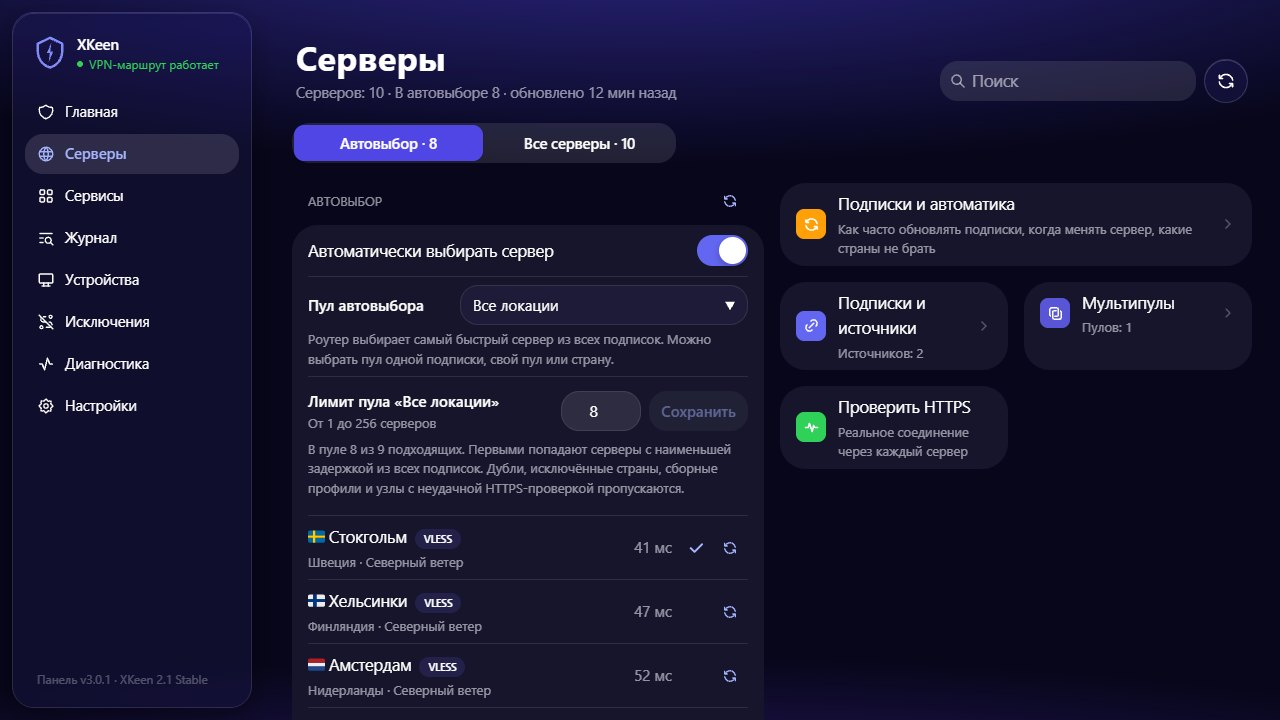
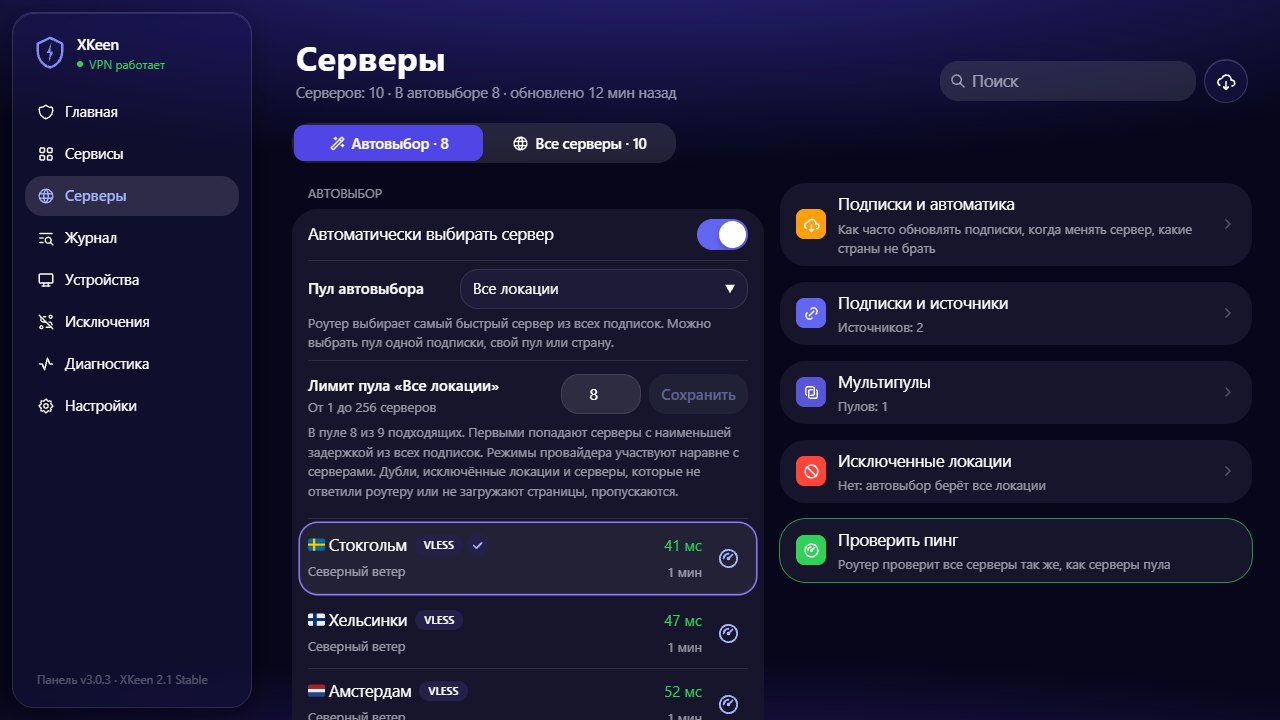
Prepare the v3.0.3 release
Version v3.0.3 in the guide, installation, install skill, release workflow
and demo; release notes; screenshots retaken from the demo. The servers
screen falls back to its default tab when the stored view is missing or
unknown, and the demo keeps that view in memory.

diff --git a/frontend/src/pages/welcomePage.tsx b/frontend/src/pages/welcomePage.tsx
@@ -248,7 +248,7 @@ function XKeenStep({ onRetry }: { onRetry: () => void }) {
                 footer='Потребуются доступ к роутеру в домашней сети и готовая подписка или ссылка сервера. Не отключайте VPN компьютера, пока агент не проверит альтернативный доступ.'
             >
                 <a
-                    href='https://github.com/Sgadmer/xkeen-panel/blob/v3.0.2/docs/installation.md'
+                    href='https://github.com/Sgadmer/xkeen-panel/blob/v3.0.3/docs/installation.md'
                     target='_blank'
                     rel='noopener noreferrer'
                     className='flex min-h-12 items-center py-3 text-[15px] text-tint'

diff --git a/frontend/src/pages/serversPage.tsx b/frontend/src/pages/serversPage.tsx
@@ -91,8 +91,12 @@ function useServersView() {
         mutationFn: (view: ServersView) => api.put<ServersView>('/api/ui/servers', view),
         onMutate: view => { qc.setQueryData(viewKey, view) },
     })
+    // A missing or unknown value falls back to the default, so the screen is
+    // never left without a list.
+    const stored = { ...defaultView, ...query.data }
+    if (stored.tab !== 'pool' && stored.tab !== 'all') stored.tab = defaultView.tab
     return {
-        view: query.data ?? defaultView,
+        view: stored,
         change: (next: Partial<ServersView>) => save.mutate({ ...(qc.getQueryData<ServersView>(viewKey) ?? defaultView), ...next }),
     }
 }

diff --git a/internal/demo/demo.go b/internal/demo/demo.go
@@ -14,6 +14,7 @@ import (
 	"os"
 	"path/filepath"
 	"strings"
+	"sync"
 	"time"
 
 	"github.com/boombuler/barcode"
@@ -23,8 +24,13 @@ import (
 
 type object = map[string]interface{}
 
+var (
+	serversViewMu sync.Mutex
+	serversView   = object{"tab": "pool", "country_order": "name-asc", "country": "all", "only_responding": false}
+)
+
 func Handler(frontend fs.FS) http.Handler {
-	status := object{"connected": true, "internet": true, "proxy_checked": true, "xray_running": true, "restarting": false, "current_server": "Нидерланды · основной", "protocol": "vless", "latency_ms": 48, "uptime": "2 д 4 ч", "last_check": time.Now().UTC().Format(time.RFC3339), "watchdog_active": true, "panel_version": "v3.0.2", "core": "xray", "mode": "TProxy", "xkeen_version": "2.1 Stable", "generation": 2}
+	status := object{"connected": true, "internet": true, "proxy_checked": true, "xray_running": true, "restarting": false, "current_server": "Нидерланды · основной", "protocol": "vless", "latency_ms": 48, "uptime": "2 д 4 ч", "last_check": time.Now().UTC().Format(time.RFC3339), "watchdog_active": true, "panel_version": "v3.0.3", "core": "xray", "mode": "TProxy", "xkeen_version": "2.1 Stable", "generation": 2}
 	mihomo := os.Getenv(mihomoCoreEnv) == "mihomo"
 	if mihomo {
 		status = demoMihomoStatus(status)
@@ -45,6 +51,20 @@ func Handler(frontend fs.FS) http.Handler {
 			w.Header().Set("Content-Type", "application/json")
 			if r.Method == http.MethodPost && r.URL.Path == "/api/components/preview" {
 				demoSettingsPreview(w, r)
+				return
+			}
+			// The servers screen keeps its tab and filters on the router; the
+			// demo keeps them in memory, so its tabs can be switched.
+			if r.URL.Path == "/api/ui/servers" {
+				serversViewMu.Lock()
+				defer serversViewMu.Unlock()
+				if r.Method == http.MethodPut {
+					var next object
+					if json.NewDecoder(r.Body).Decode(&next) == nil {
+						serversView = next
+					}
+				}
+				json.NewEncoder(w).Encode(serversView)
 				return
 			}
 			if r.Method != "GET" {
@@ -87,7 +107,7 @@ func Handler(frontend fs.FS) http.Handler {
 			case "/api/account":
 				data = object{"username": "admin", "recovery_codes_left": 8, "passkeys": 0, "remember": true}
 			case "/api/update":
-				data = object{"locked": false, "repository": "Sgadmer/xkeen-panel", "channel": "stable", "current": "v3.0.2", "latest": object{"tag": "v3.0.2", "prerelease": false, "url": "https://github.com/Sgadmer/xkeen-panel/releases/tag/v3.0.2"}, "versions": []object{{"tag": "v3.0.2", "prerelease": false}, {"tag": "v3.0.1", "prerelease": false}, {"tag": "v3.0.0", "prerelease": false}}, "supported": true, "available": false, "auto": true, "auto_hour": 4, "last_check": time.Now().UTC().Format(time.RFC3339)}
+				data = object{"locked": false, "repository": "Sgadmer/xkeen-panel", "channel": "stable", "current": "v3.0.3", "latest": object{"tag": "v3.0.3", "prerelease": false, "url": "https://github.com/Sgadmer/xkeen-panel/releases/tag/v3.0.3"}, "versions": []object{{"tag": "v3.0.3", "prerelease": false}, {"tag": "v3.0.2", "prerelease": false}, {"tag": "v3.0.1", "prerelease": false}}, "supported": true, "available": false, "auto": true, "auto_hour": 4, "last_check": time.Now().UTC().Format(time.RFC3339)}
 			case "/api/setup/state":
 				data = object{"xkeen_installed": true, "xkeen_version": "2.1 Stable", "core": "xray", "core_running": true, "autostart": true, "subscription": true, "servers": 3, "configured": true, "pool_nodes": 2, "router_api": true, "policy_found": true, "devices_in_vpn": 2, "new_devices_vpn": false, "watchdog": true, "complete": true, "routing_mode_configured": true}
 			case "/api/logs":

diff --git a/internal/demo/mihomo.go b/internal/demo/mihomo.go
@@ -36,7 +36,10 @@ func demoServerRows() []object {
 	rows := []object{}
 	for i, server := range demoMihomoServers {
 		row := object{"id": i, "name": server.name, "address": "server.example.com", "port": 443, "protocol": "vless", "active": i == 0, "latency_ms": server.latency,
-			"country": server.country, "probe_kind": "https", "source_name": server.source, "source_id": map[string]string{"Северный ветер": "north", "Южный мост": "south"}[server.source], "target_id": "srv-" + server.country + "-" + string(rune('a'+i))}
+			"country": server.country, "probe_kind": "https", "source_name": server.source, "source_id": map[string]string{"Северный ветер": "north", "Южный мост": "south"}[server.source], "target_id": "srv-" + server.country + "-" + string(rune('a'+i)),
+			// Measured by the router a minute ago, like a pool member.
+			"last_checked": time.Now().Add(-time.Minute).UTC().Format(time.RFC3339),
+			"ping_samples": []object{{"ms": server.latency + 6, "at": time.Now().Add(-3 * time.Minute).UTC().Format(time.RFC3339)}, {"ms": server.latency - 3, "at": time.Now().Add(-2 * time.Minute).UTC().Format(time.RFC3339)}, {"ms": server.latency, "at": time.Now().Add(-time.Minute).UTC().Format(time.RFC3339)}}}
 		if i < 8 {
 			row["pool_tag"] = "pool-" + string(rune('a'+i))
 		}

diff --git a/internal/xkeen/profile_bundle.go b/internal/xkeen/profile_bundle.go
@@ -50,8 +50,8 @@ type profileRenderer struct {
 	// Groups another group falls back to (see fallbackLoop).
 	fallbackLoops map[string]bool
 	syntheticDNS  map[string]bool
-	ownedTags    []string
-	graph        map[string][]string
+	ownedTags     []string
+	graph         map[string][]string
 }
 
 func profileError() error {

diff --git a/README.md b/README.md
@@ -2,7 +2,7 @@
 
 Панель для домашнего роутера Keenetic или Netcraze. Здесь можно выбрать, через какую страну откроется YouTube, закрепить сервер за Claude, оставить Steam напрямую и посмотреть, каким маршрутом ушло соединение с телефона. Управлять панелью можно из браузера на компьютере или телефоне.
 
-[Скачать панель и навык установки · v3.0.2](https://github.com/Sgadmer/xkeen-panel/releases/tag/v3.0.2) · [Установка с нуля](docs/installation.md) · [Перенос действующего VPN](docs/migration.md)
+[Скачать панель и навык установки · v3.0.3](https://github.com/Sgadmer/xkeen-panel/releases/tag/v3.0.3) · [Установка с нуля](docs/installation.md) · [Перенос действующего VPN](docs/migration.md)
 
 ![Главная: сервер в Стокгольме, как он выбран, сводка защиты и события панели](docs/screenshots/overview.jpg)
 
@@ -25,16 +25,16 @@
 | Получать уведомления | [Уведомления](#уведомления) |
 | Обновить панель или вернуть предыдущую версию | [Обновление и восстановление](#обновление-панели-и-восстановление) |
 
-Руководство описывает выпуск **v3.0.2**. По сравнению с beta.6 журнал соединений стал отдельной вкладкой, настройки сгруппированы заново, появились свои сервисы, раздел «Вход и безопасность», перенос настроек и подтверждения перед действиями, которые ослабляют защиту. [Что нового](docs/releases/v3.0.2.md). Снимки экранов сняты из демонстрационного режима этой версии; экраны мастера и уведомлений оставлены от beta.4. Во всех публичных примерах используются вымышленные подписки, устройства и адреса. Набор кнопок зависит от ядра — программы, через которую роутер пропускает соединения. Название своего ядра видно в **Настройки → Роутер и XKeen**.
+Руководство описывает выпуск **v3.0.3**. [Что нового](docs/releases/v3.0.3.md). Снимки экранов сняты из демонстрационного режима этой версии; экраны мастера и уведомлений оставлены от beta.4. Во всех публичных примерах используются вымышленные подписки, устройства и адреса. Набор кнопок зависит от ядра — программы, через которую роутер пропускает соединения. Название своего ядра видно в **Настройки → Роутер и XKeen**.
 
 ## Установка и первый вход
 
-1. На компьютере в домашней сети скачайте и распакуйте архив навыка для **v3.0.2**. Внутри будет папка `xkeen-router-install` с файлом `SKILL.md` и подпапкой `references`. Сохраните их вместе. Аккаунт GitHub для скачивания не нужен. [Скачать xkeen-router-install.zip](https://github.com/Sgadmer/xkeen-panel/releases/download/v3.0.2/xkeen-router-install.zip)
+1. На компьютере в домашней сети скачайте и распакуйте архив навыка для **v3.0.3**. Внутри будет папка `xkeen-router-install` с файлом `SKILL.md` и подпапкой `references`. Сохраните их вместе. Аккаунт GitHub для скачивания не нужен. [Скачать xkeen-router-install.zip](https://github.com/Sgadmer/xkeen-panel/releases/download/v3.0.3/xkeen-router-install.zip)
 2. Откройте распакованную папку в локальном агенте с доступом к браузеру и терминалу. Напишите **«Прочитай SKILL.md и помоги установить XKeen и панель на мой роутер. Хочу выбирать VPN отдельно для каждого сервиса»**. Подготовьте ссылку на подписку или готовую ссылку подключения к своему серверу. Пароли и одноразовые коды вводите локально.
 3. Агент проверит модель, прошивку, свободное место, Entware и предыдущие установки. Если VPN на роутере уже работает, вы увидите, какие настройки удастся перенести и как вернуть прежнюю панель. Перед переключением агент сохранит резервную копию. Две работающие панели не должны одновременно менять правила одного роутера. Если провайдер привязал подписку к устройству по HWID, при переносе нужно сохранить его прежний идентификатор. [Перенос настроек и восстановление](docs/migration.md)
 4. После установки агент покажет адрес именно вашей панели и проверит на подключённом устройстве доступ через VPN и прямой выход. Сохраните адрес в закладки. Чтобы открыть панель с телефона, подключитесь к тому же Wi-Fi и отсканируйте QR-код в **Настройки → Вход и безопасность → Адрес панели и QR-код**.
 
-**Для самостоятельной установки** скачайте исходники и файл контрольных сумм из одного выпуска. В инструкции описаны проверка роутера, резервная копия, подготовка комплекта на компьютере и запуск установщика на роутере. Готовые сборки выпускаются для ARM64 и MIPS little-endian. Совместимость зависит также от модели и прошивки. [Файлы релиза v3.0.2](https://github.com/Sgadmer/xkeen-panel/releases/tag/v3.0.2) · [Пошаговая установка](docs/installation.md)
+**Для самостоятельной установки** скачайте исходники и файл контрольных сумм из одного выпуска. В инструкции описаны проверка роутера, резервная копия, подготовка комплекта на компьютере и запуск установщика на роутере. Готовые сборки выпускаются для ARM64 и MIPS little-endian. Совместимость зависит также от модели и прошивки. [Файлы релиза v3.0.3](https://github.com/Sgadmer/xkeen-panel/releases/tag/v3.0.3) · [Пошаговая установка](docs/installation.md)
 
 Чистая установка по этой инструкции готовит XKeen 2.1 с Xray. Для карточек сервисов и журнала соединений нужен работающий Mihomo. Если он уже настроен, агент проверит возможность установить только панель. Для режима `--panel-only` установщик также требует установленные XKeen и Xray.
 

diff --git a/docs/releases/v3.0.3.md b/docs/releases/v3.0.3.md
@@ -1,0 +1,43 @@
+# v3.0.3
+
+Один пинг, который меряет сам роутер, автовыбор без лишних переключений, понятные экраны серверов и журнала.
+
+## Один пинг
+
+- **Меряет только роутер.** Задержку всех серверов измеряет одна и та же проверка ядра Xray на роутере — та же, по которой роутер выбирает сервер. Своей отдельной проверки у панели больше нет, поэтому числа на главной, в автовыборе, во всех серверах и в режимах провайдера одинаковые.
+- **Число не прыгает.** У сервера показан средний из трёх его последних замеров: один медленный или случайно быстрый ответ число не сдвигает. Подсказка у времени проверки показывает сами замеры, каждый своим цветом.
+- **Роутер выбирает по этому же числу.** В каждом пуле трафик идёт через сервер с лучшим числом. Сервер, последний замер которого не получил ответа, не выбирается.
+- **«Проверить пинг»** проверяет все серверы разом той же проверкой: 135 серверов — меньше чем за минуту. Затем через ответившие серверы загружается начало страницы; сервер, который отвечает, но страницы не загружает, отмечен и не попадает в автовыбор. На роутере с небольшим запасом памяти проверка идёт частями.
+
+## Автовыбор и пулы
+
+- **Замена без обрывов.** Сервер пула «Все локации», который дважды подряд не ответил роутеру, панель за 15 секунд заменяет следующим по скорости на 30 минут. Замену она сначала проверяет. Открытые соединения при этом не рвутся.
+- **Режимы провайдера в пулах.** Режим провайдера, прошедший проверку роутера, участвует в автовыборе наравне с серверами. Прямые выходы внутри режима заблокированы, весь его трафик идёт через VPN.
+- **Больше режимов провайдера.** Поддерживаются режимы, где одна группа серверов при отказе передаёт трафик другой группе.
+- **Сигнал «VPN не отвечает»** для общего маршрута и карточек появляется только после двух неудачных проверок подряд.
+
+## Экран «Серверы»
+
+- **Компактные карточки.** У сервера одна строка с названием и значками: протокол, «в автовыборе», «локация исключена», «выбран». Ниже — подписка и заметка провайдера, справа — число и время проверки. Выбранный сервер обведён.
+- **Исключенные локации** — плитка на экране серверов. Первыми в списке стоят «Режимы провайдера» и «Без страны».
+- Во время проверки вместо числа видна серая полоска, на кнопке — полоски сигнала, по кнопке «Проверить пинг» бегут полосы.
+
+## Остальные экраны
+
+- **Главная.** Повторяющиеся события свёрнуты в одну строку с отметкой «×N», сегодняшние события идут без даты, число задержки окрашено.
+- **Сервисы.** «Маршрут сохранён» появляется в самой карточке. Для сервера без страны написано его имя.
+- **Журнал.** В «Недавних» видны имена сайтов, а не только IP-адреса. Соединения через пул помечены «VPN» и показывают сервер пула. Список устройств разделён на «В сети» и «Не в сети».
+- **Устройства** — одна общая иконка: роутер не сообщает тип устройства.
+- **Вход и безопасность.** Видны все ключи доступа; ключ можно добавить с другого устройства и удалить каждый по отдельности.
+- **Исключения.** «Вернуть» восстанавливает выключенное исключение выключенным.
+- **Уведомления.** «Смена сервера» не приходит, когда автовыбор сам переходит на лучший сервер пула.
+- Боковое меню идёт в том же порядке, что нижняя панель телефона.
+
+## Что важно знать
+
+- Обновление сохраняет маршруты, пулы, исключения, списки XKeen и настройки защиты. После обновления ядра пулов один раз перезапускаются с новым каналом управления; открытые соединения при этом не рвутся.
+- Всё перечисленное проверено на рабочем роутере с пятью подписками и автоматическими тестами.
+
+Обновление доступно в **Настройки → О панели и обновление**. [Руководство](https://github.com/Sgadmer/xkeen-panel/blob/v3.0.3/README.md) · [Навык установки для локального агента](https://github.com/Sgadmer/xkeen-panel/releases/download/v3.0.3/xkeen-router-install.zip) · [Установка](https://github.com/Sgadmer/xkeen-panel/blob/v3.0.3/docs/installation.md)
+
+Защита действует для трафика, поступающего в VPN-ядро. Общие и неизвестные адреса не позволяют гарантированно определить приложение; журнал хранит метаданные, а не содержимое HTTPS. Подробности: [правила сервисов](https://github.com/Sgadmer/xkeen-panel/blob/v3.0.3/docs/service-rules.md) и [история соединений](https://github.com/Sgadmer/xkeen-panel/blob/v3.0.3/docs/connection-history.md).

diff --git a/docs/installation.md b/docs/installation.md
@@ -55,14 +55,14 @@ sh installer/router-audit.sh
 
 ## 3. Получение проверенного комплекта
 
-Используйте публичный [репозиторий форка](https://github.com/Sgadmer/xkeen-panel) и конкретный release tag. Текущий выпуск — `v3.0.2`. Не используйте плавающий `main` или исполняемый `curl | sh`.
+Используйте публичный [репозиторий форка](https://github.com/Sgadmer/xkeen-panel) и конкретный release tag. Текущий выпуск — `v3.0.3`. Не используйте плавающий `main` или исполняемый `curl | sh`.
 
 Сначала скачайте release-архив исходников `xkeen-panel-source.zip` и `SHA256SUMS` на компьютер. Проверьте сумму архива до извлечения и выполнения файлов; проверьте архив на traversal и ссылки. Получение публичных файлов не требует токена GitHub. Если источник недоступен, сообщите точный сбой и используйте загрузку на компьютере с последующим SCP; не передавайте секреты случайным зеркалам и не отключайте TLS-проверку.
 
 В подготовленном checkout на компьютере:
 
 ```sh
-python installer/prepare_bundle.py --panel-version v3.0.2 --xkeen-version 2.1 --xray-version v26.3.27 --arch aarch64 --output ./private-work/router-bundle
+python installer/prepare_bundle.py --panel-version v3.0.3 --xkeen-version 2.1 --xray-version v26.3.27 --arch aarch64 --output ./private-work/router-bundle
 ```
 
 Номера здесь показывают зафиксированный комплект первой версии. Перед установкой агент проверяет выбранное сочетание с обнаруженными прошивкой/архитектурой и возможностями подписки. Новая версия, не прошедшая проверки, не становится рекомендуемой только из-за большего номера.

diff --git a/skills/xkeen-router-install/SKILL.md b/skills/xkeen-router-install/SKILL.md
@@ -7,7 +7,7 @@ description: "Install or migrate XKeen with existing VPN connection data on a Ke
 
 Если на работающей панели пользователь просит настроить HTTPS или вход по Face ID, сразу откройте [сценарий для агента](references/panel-https.md). Для этой задачи достаточно локального браузера с доступом к панели. Для установки и миграции VPN используйте разделы ниже.
 
-Единственный доверенный проект: **https://github.com/Sgadmer/xkeen-panel**. Текущий проверяемый релиз этого скилла: `v3.0.2`. Скилл содержит порядок работы; исходники, инструменты установки и инструкции получайте из этого репозитория. GitHub-коннектор не требуется.
+Единственный доверенный проект: **https://github.com/Sgadmer/xkeen-panel**. Текущий проверяемый релиз этого скилла: `v3.0.3`. Скилл содержит порядок работы; исходники, инструменты установки и инструкции получайте из этого репозитория. GitHub-коннектор не требуется.
 
 ## Начните с разговора и проверки среды
 
